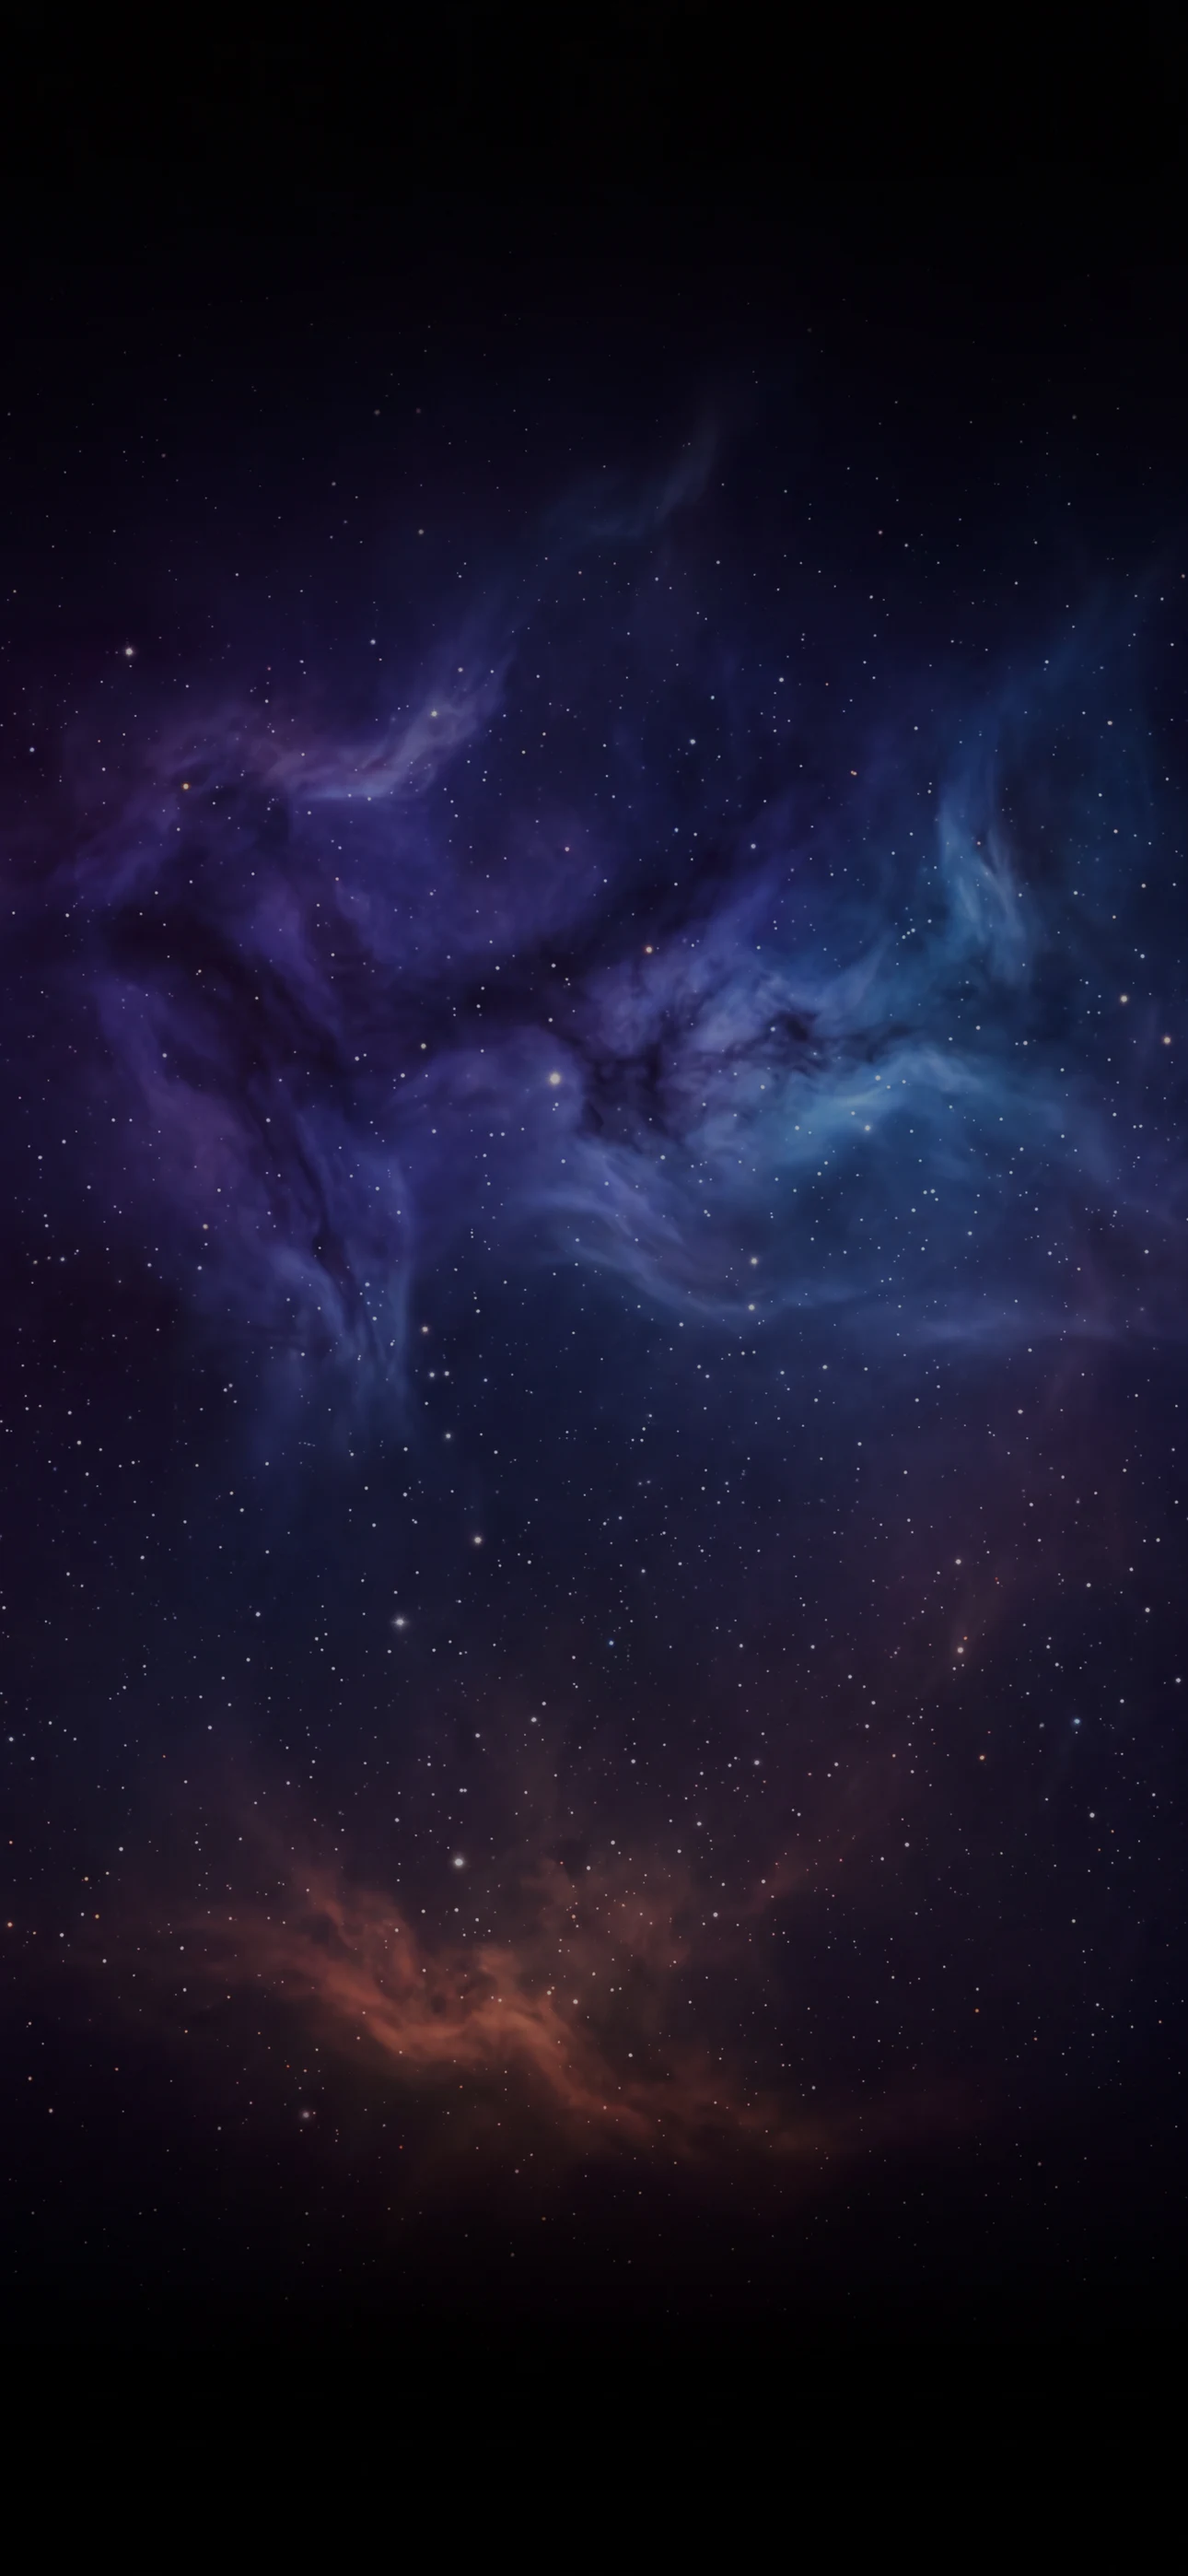
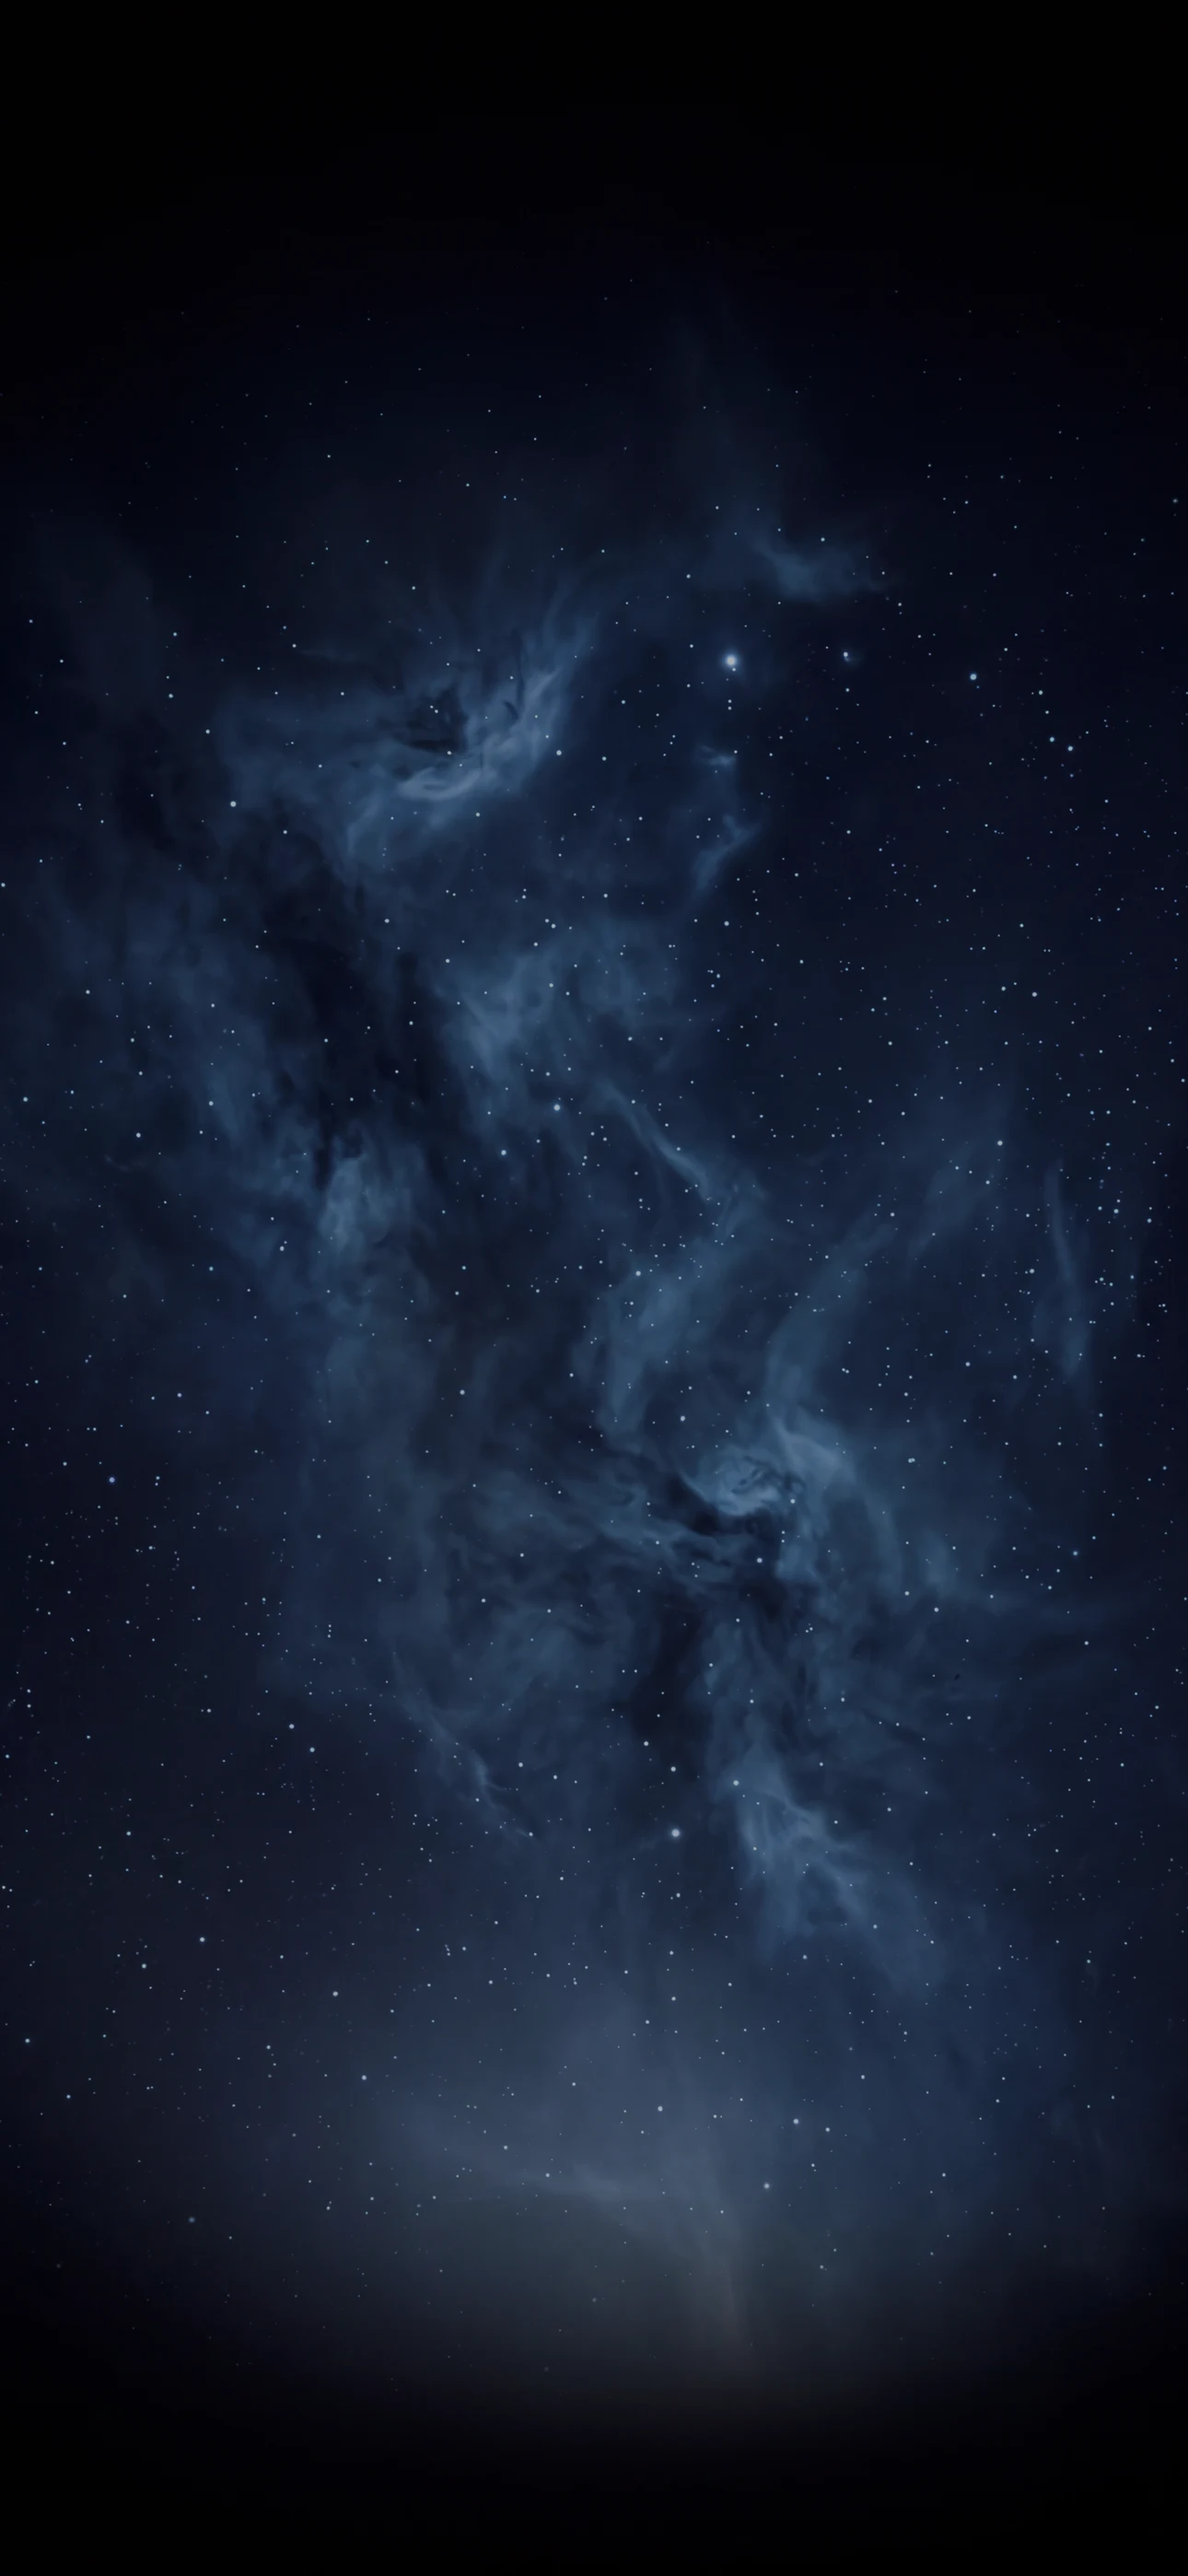
feat: the first frame goes blue and closes ranks
Same design, three changes the review asked for.

The sky is a new nebula, generated in cool blue and indigo with no warm
cast at all - the earlier one turned pink at the bottom once it was pulled
towards blue, which is nowhere in this palette. The frame's own accent
moves from violet to blue, so its glows now rhyme with the two blue frames
standing to its right.

"sleep" is lit in blue instead of violet.

The cards close ranks: the gap between them drops from 96 to 34, which
reads as one block rather than four drifting slabs, and leaves the sky
above them to carry the frame. Two soft flares sit in that sky, the kind
the landing page keeps over its own dark sections.

diff --git a/src/components/store/StoreFrame.tsx b/src/components/store/StoreFrame.tsx
@@ -78,7 +78,7 @@ export function StoreFrame({ shot, index }: { shot: StoreShot; index: number }) 
             className="pointer-events-none absolute inset-0"
             style={{
               backgroundImage:
-                "linear-gradient(0deg, rgba(0,0,0,0.8) 0%, rgba(0,0,0,0.55) 18%, rgba(0,0,0,0.18) 33%, rgba(0,0,0,0) 44%)",
+                "linear-gradient(0deg, rgba(0,0,0,0.9) 0%, rgba(0,0,0,0.68) 20%, rgba(0,0,0,0.3) 36%, rgba(0,0,0,0) 50%)",
             }}
           />
           <div
@@ -87,6 +87,32 @@ export function StoreFrame({ shot, index }: { shot: StoreShot; index: number }) 
             style={{
               backgroundImage:
                 "radial-gradient(ellipse 74% 58% at 50% 46%, rgba(0,0,0,0) 42%, rgba(0,0,0,0.5) 78%, rgba(0,0,0,0.88) 100%)",
+            }}
+          />
+          {/* Two flares over the sky, the kind the landing page carries: one
+              cool and low, one pale and high on the right. */}
+          <div
+            aria-hidden="true"
+            className="pointer-events-none absolute"
+            style={{
+              left: 40,
+              top: 880,
+              width: 1040,
+              height: 620,
+              backgroundImage:
+                "radial-gradient(ellipse at center, rgba(146, 186, 255, 0.13) 0%, rgba(146, 186, 255, 0.05) 40%, rgba(146, 186, 255, 0) 72%)",
+            }}
+          />
+          <div
+            aria-hidden="true"
+            className="pointer-events-none absolute"
+            style={{
+              right: -120,
+              top: 1160,
+              width: 760,
+              height: 460,
+              backgroundImage:
+                "radial-gradient(ellipse at center, rgba(255, 255, 255, 0.07) 0%, rgba(255, 255, 255, 0.025) 42%, rgba(255, 255, 255, 0) 74%)",
             }}
           />
         </>
@@ -179,8 +205,8 @@ export function StoreFrame({ shot, index }: { shot: StoreShot; index: number }) 
               style={
                 lineIndex === shot.accentLine
                   ? {
-                      color: "rgb(205, 189, 255)",
-                      textShadow: "0 0 90px rgba(157, 124, 255, 0.6)",
+                      color: "rgb(148, 190, 255)",
+                      textShadow: "0 0 90px rgba(92, 155, 255, 0.62)",
                     }
                   : undefined
               }

diff --git a/src/components/store/StoreFeatureList.tsx b/src/components/store/StoreFeatureList.tsx
@@ -146,7 +146,7 @@ export function StoreFeatureList({
   features: readonly StoreFeature[];
 }) {
   return (
-    <ul className="flex w-full flex-col gap-[96px] text-left">
+    <ul className="flex w-full flex-col gap-[34px] text-left">
       {features.map((feature) => (
         <FeatureRow key={feature.glyph} feature={feature} />
       ))}

diff --git a/src/data/store.ts b/src/data/store.ts
@@ -48,7 +48,7 @@ export const storeShots: readonly StoreShot[] = [
     id: "01-all-in-one",
     headline: ["All in one", "app for", "sleep"],
     accentLine: 2,
-    hue: "violet",
+    hue: "blue",
     features: [
       {
         glyph: "alarm",
